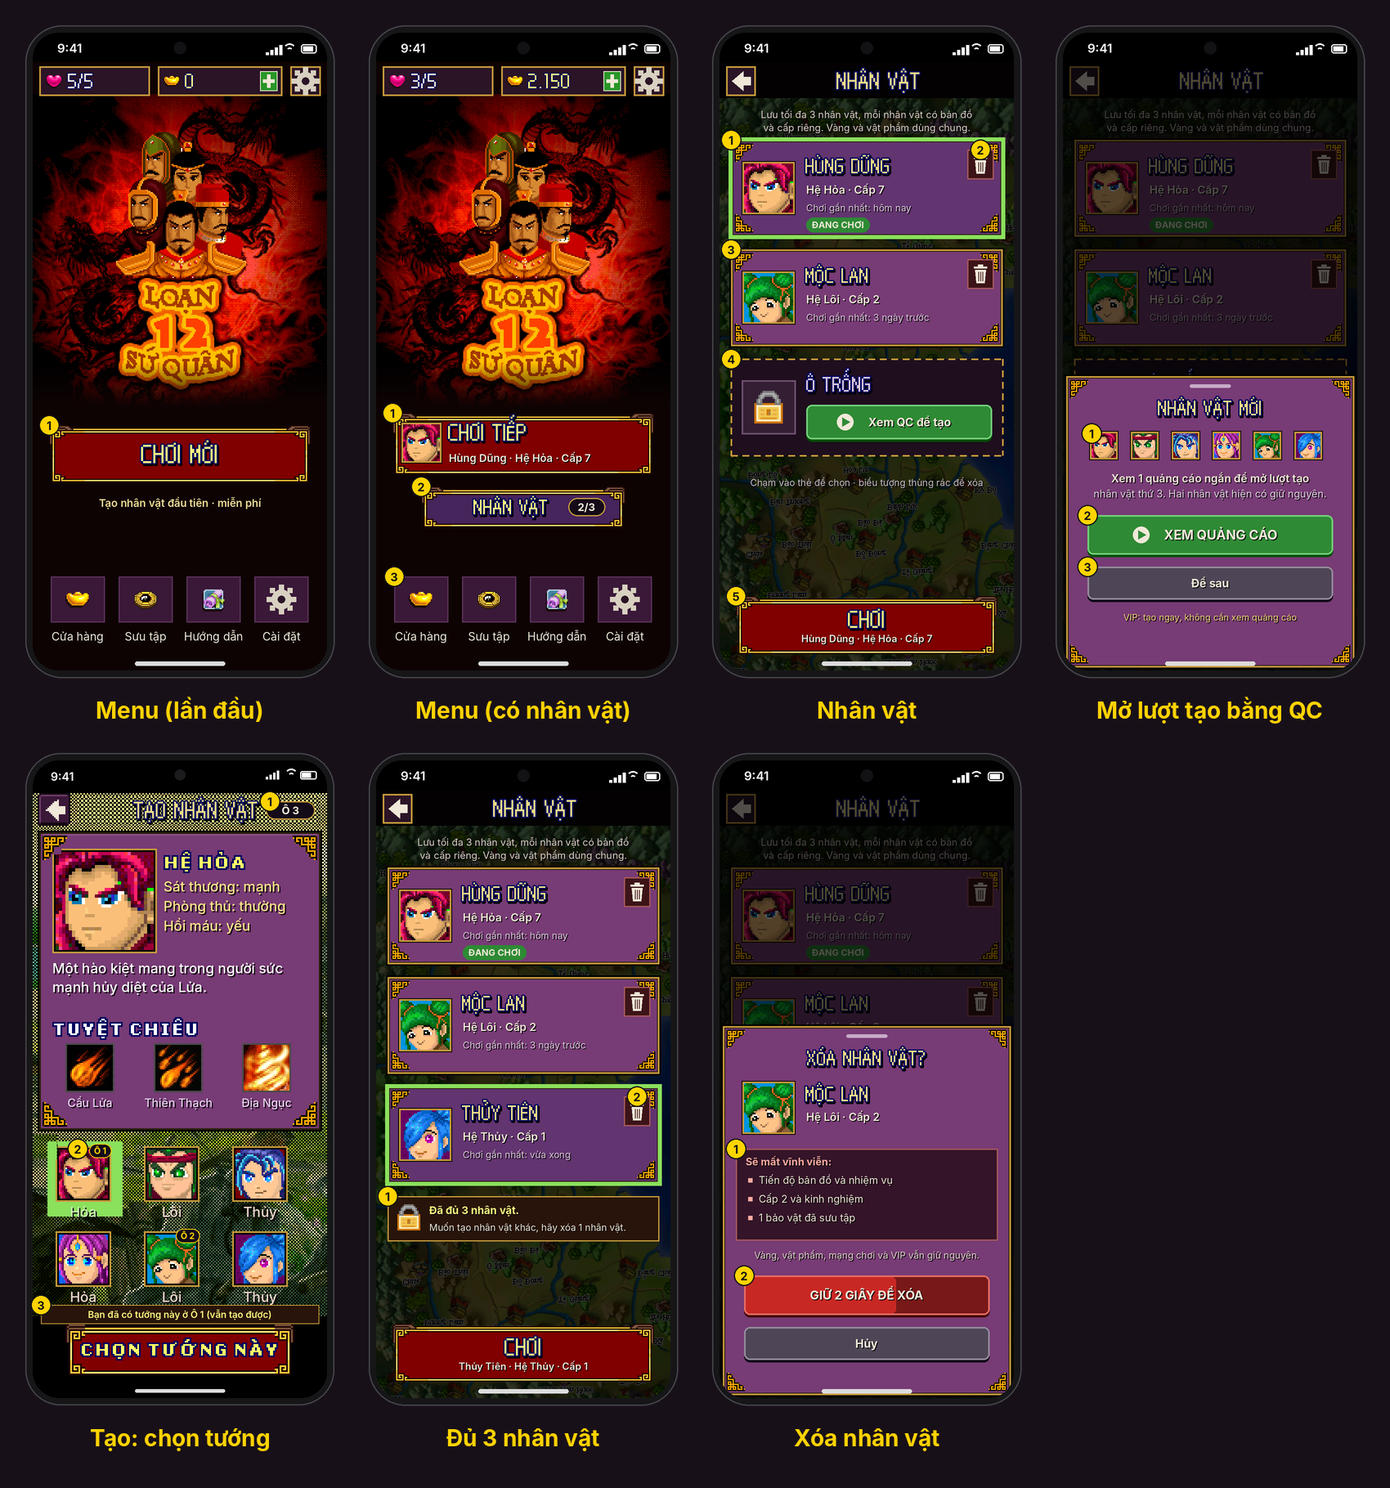
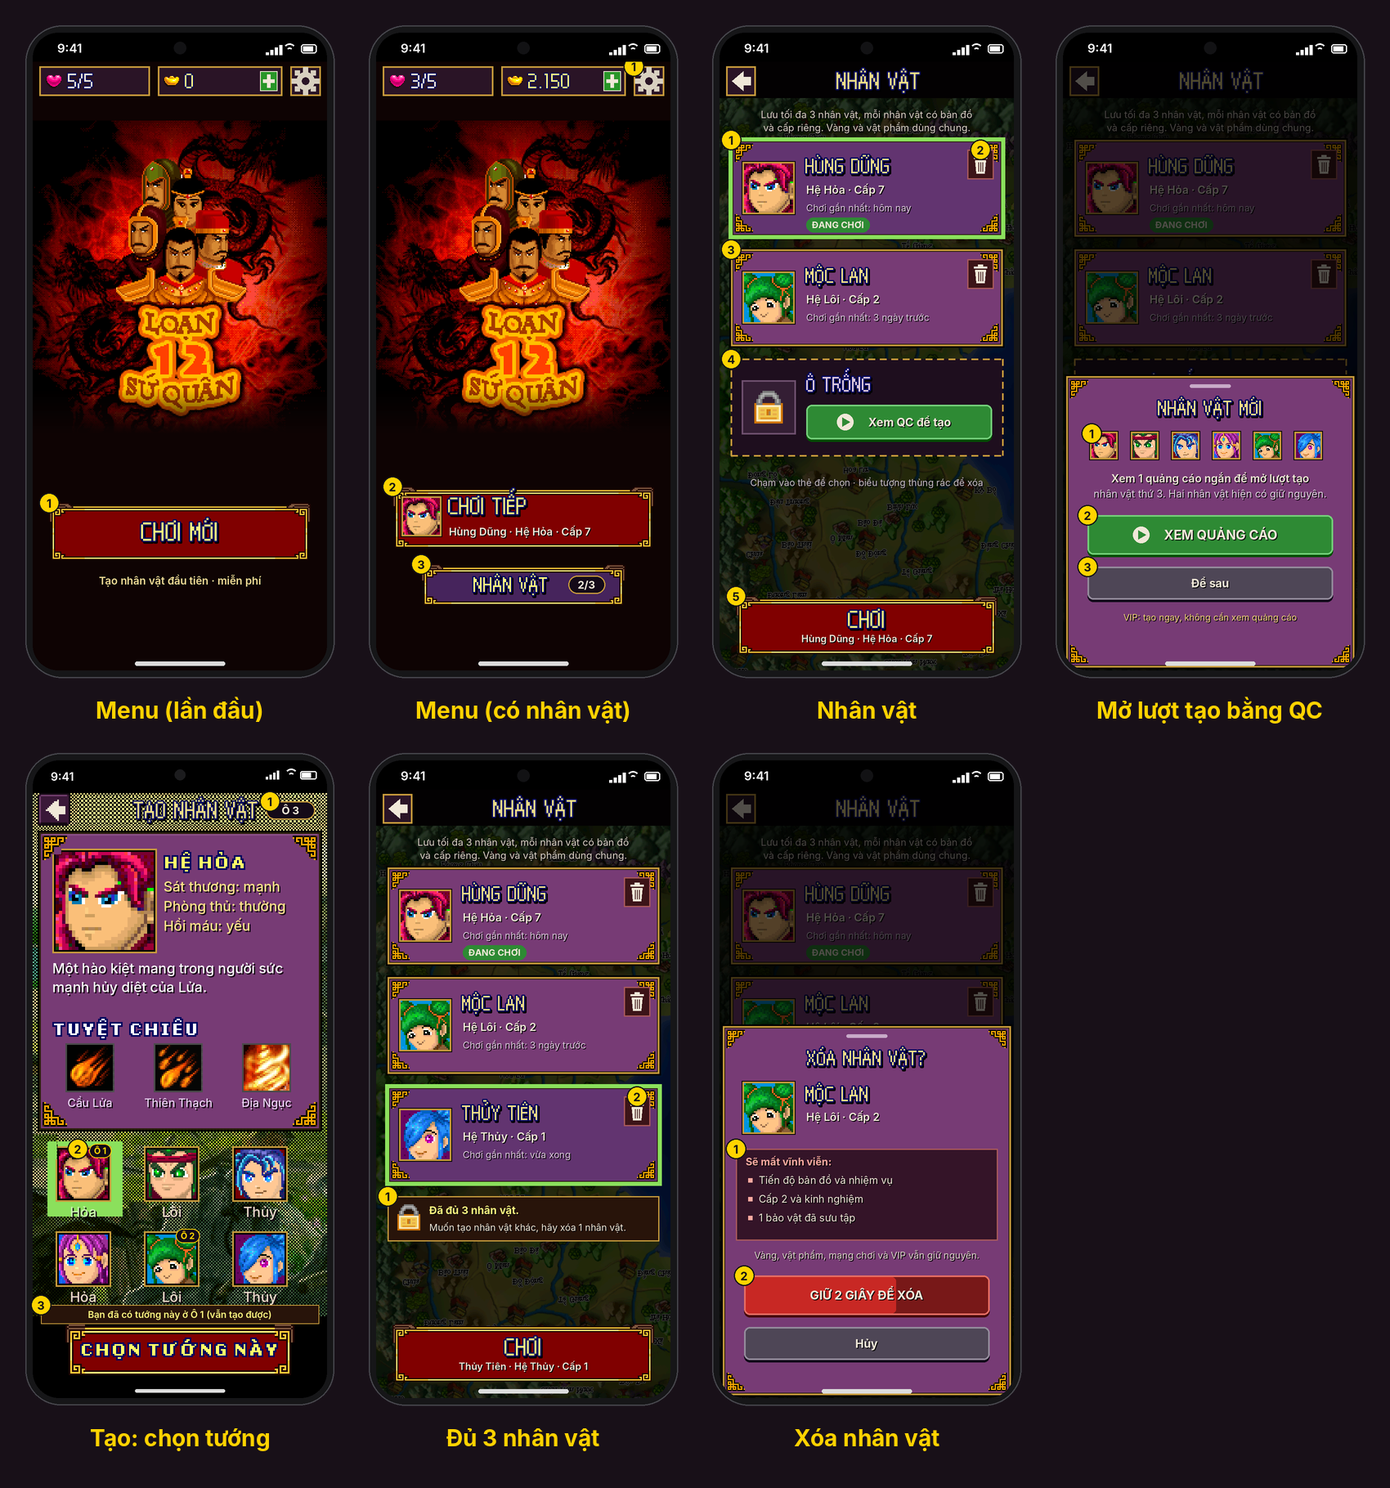
plan: Menu chính bỏ lối tắt, thiết kế màn Cài đặt
- plan/thiet-ke-cai-dat.md: Menu chỉ còn Chơi tiếp / Nhân vật (hoặc Chơi mới),
  nơi chuyển tới của Cửa hàng, Sưu tập, Hướng dẫn, Thông tin; màn Cài đặt từ
  Menu, từ bản đồ (thay hộp Tạm dừng) và trong trận; Luật chơi; Thông tin.
- Ảnh nháp plan/ui/cai-dat/; cập nhật ảnh Menu ở plan/ui/nhan-vat/.
- Sửa liên kết trong thiet-ke-nhieu-nhan-vat, thiet-ke-ban-do, thiet-ke-giao-dien.

Claude-Session: https://claude.ai/code/session_01DP7PE3Bcxc6a5H75rTjYAL

Changed region(s): [[0.0, 0.0615, 0.4988, 0.4308], [0.4365, 0.0308, 0.4676, 0.0615]]

diff --git a/plan/thiet-ke-cai-dat.md b/plan/thiet-ke-cai-dat.md
@@ -1,0 +1,152 @@
+# Menu chính gọn lại và màn Cài đặt
+
+> **Trạng thái:** thiết kế để implement, **chưa code**.
+>
+> - Ảnh nằm trong [`ui/cai-dat/`](ui/cai-dat/), vẽ bằng hình gốc của game, cùng lưới và màu với [thiết kế giao diện](thiet-ke-giao-dien.md).
+> - Toạ độ ghi theo **điểm ảo** `u` (1 u = 4 px trên ảnh nháp). Mã nguồn nhắc tới là bản Java dịch ngược trên nhánh `ui-touch`.
+
+![Tổng quan](ui/cai-dat/00_tong-quan-cai-dat.png)
+
+## 1. Menu chính: bỏ hàng lối tắt
+
+Bỏ hẳn hàng 4 nút **Cửa hàng · Sưu tập · Hướng dẫn · Cài đặt** ở đáy Menu chính. Menu chỉ còn thanh trên và 1–2 nút lớn.
+
+<img src="ui/cai-dat/09_menu-nhan-vat.png" width="300" alt="Menu chính có nhân vật"> <img src="ui/cai-dat/09b_menu-lan-dau.png" width="300" alt="Menu chính lần đầu">
+
+1. **Nút ⚙ trên thanh trên** (18×18 u, góc phải): mở màn Cài đặt (mục 2).
+2. **CHƠI TIẾP** (160×37 u) dời xuống, cách đáy vùng an toàn 75 u.
+3. **NHÂN VẬT n/3** (125×25 u) ngay dưới, cách 10 u. Lần đầu (chưa có nhân vật) chỉ có **CHƠI MỚI** (160×35 u) và dòng "Tạo nhân vật đầu tiên · miễn phí".
+
+- Ảnh bìa (`/bksplashscreen` x3) dời xuống 16 u cho cân với khoảng trống mới; mép dưới ảnh mờ dần vào nền (14,3,3) trong 27 u.
+- Các nút khác của thanh trên giữ nguyên: chạm ô **mạng** mở hộp Hết mạng / thêm mạng; nút **+** cạnh vàng mở **Cửa hàng** (tab Vàng).
+
+Những thứ bị bỏ khỏi Menu chuyển về đâu:
+
+| Trước ở Menu | Bây giờ |
+|---|---|
+| Cửa hàng | Thẻ Cửa hàng trên [bản đồ](thiet-ke-ban-do.md#5-thẻ-cửa-hàng). Từ Menu: nút **+** cạnh vàng mở cùng màn Cửa hàng ở dạng trang riêng (nút quay lại thay cho thanh điều hướng). |
+| Sưu tập | Mục Bảo vật trong thẻ [Túi đồ](thiet-ke-ban-do.md#4-thẻ-túi-đồ) (bảo vật là của từng nhân vật, nên đặt trong game hợp hơn). |
+| Hướng dẫn | Cài đặt → Trò chơi → **Luật chơi** (mục 2.4). |
+| Cài đặt | Nút ⚙ trên thanh trên. |
+| Thông tin, Tác giả | Cài đặt → Hỗ trợ → **Thông tin và tác giả** (mục 2.5). |
+
+## 2. Màn Cài đặt
+
+Một trang riêng, mở từ nút ⚙ ở **Menu chính** hoặc trên **bản đồ** (thay cho hộp Tạm dừng trước đây). Nội dung chia nhóm, mỗi nhóm là khung tím viền vàng (không có hoa văn góc), mỗi dòng cao 21 u, có vạch ngăn giữa các dòng. Trang cuộn dọc nếu không đủ chỗ.
+
+- Thanh trên: nút quay lại 18×18 u và tiêu đề "CÀI ĐẶT" phông pixel.
+- Quay lại / Back Android: đóng trang. Mọi thay đổi **lưu ngay** khi chạm, không có nút "Lưu".
+- Tiêu đề nhóm: chữ HD đậm 6 u, màu vàng (255,212,0), cách lề 8 u.
+
+### 2.1 Mở từ Menu chính
+
+<img src="ui/cai-dat/19_cai-dat.png" width="300" alt="Cài đặt từ Menu">
+
+1. **Âm thanh**
+   - **Âm thanh** (công tắc): bật/tắt toàn bộ nhạc và tiếng (`cx.x`, các lệnh `setMute(!cx.x)` ở `cf`, `dk`). Thay cho màn âm thanh (`v`, "Mở / Tắt" và mức âm lượng) lúc mở game.
+   - **Rung** (công tắc, mới): rung nhẹ khi trúng đòn mạnh, mua hàng thành công, giữ nút xoá nhân vật. Mặc định bật.
+2. **Âm lượng** (thanh kéo 0–100, bước 5, số bên phải): `cx.y`, lưu bằng `bg.d(n)` (16b #11) như màn âm thanh cũ (`v`). Vùng chạm cao 24 u; chạm chỗ nào trên thanh thì nhảy tới đó. Thả tay thì phát tiếng "chọn" một lần ở mức mới. Tắt âm thanh thì thanh này mờ và không kéo được.
+3. **Trò chơi**
+   - **Luật chơi ›**: mở trang Luật chơi (mục 2.4).
+   - **Hướng dẫn bản đồ ›**: chạy lại 3 bước chỉ tay của [bản đồ](thiet-ke-ban-do.md#35-hướng-dẫn-bản-đồ-lần-đầu-và-trong-cài-đặt). Từ Menu (chưa ở bản đồ): dòng mờ, ghi chú "Mở khi đang ở bản đồ".
+4. **Mua hàng và quảng cáo**
+   - **VIP**: bên phải "Chưa có ›" (chạm mở Cửa hàng tab Ưu đãi) hoặc "Đang có" (không chạm được).
+   - **Khôi phục giao dịch ›**: như nút cùng tên ở tab Ưu đãi.
+   - **Tuỳ chọn quảng cáo ›** (dòng phụ "Quyền riêng tư (Google)"): mở form quyền riêng tư của Google UMP. **Chỉ hiện** khi UMP báo cần hiện mục này (`PrivacyOptionsRequirementStatus == Required`, thường là người chơi ở châu Âu).
+5. **Hỗ trợ**
+   - **Đánh giá game ›**: mở hộp đánh giá trong ứng dụng của Google Play (In-App Review). Nếu Google Play không hiện hộp thì mở trang game trên Play Store.
+   - **Chia sẻ với bạn bè ›**: bảng chia sẻ của Android, nội dung "Chơi Loạn 12 Sứ Quân cùng mình: {link Play Store}".
+   - **Chính sách quyền riêng tư** (biểu tượng mở ngoài): mở trang chính sách trên trình duyệt. Cần có trang này trước khi phát hành (Google Play và AdMob bắt buộc).
+   - **Thông tin và tác giả ›**: mở trang mục 2.5.
+6. Dòng cuối: "Phiên bản {versionName} ({versionCode}) · Loạn 12 sứ quân · 2010 MicroGame". Chạm 7 lần liên tiếp: hiện mã người chơi ẩn danh để gửi hỗ trợ (không hiện email hay thông tin cá nhân).
+
+### 2.2 Mở trên bản đồ
+
+<img src="ui/cai-dat/19b_cai-dat-ban-do.png" width="300" alt="Cài đặt trên bản đồ">
+
+Game **tạm dừng** khi trang mở (không chạy tiếp đường đi, đồng hồ hồi mạng vẫn chạy). Khác bản từ Menu:
+
+1. Nhóm Trò chơi thêm dòng **Đổi nhân vật › {n}/3**: ghi save bản đồ (`aa.w()`), về Menu rồi mở ngay màn [Nhân vật](thiet-ke-nhieu-nhan-vat.md#43-màn-nhân-vật). Nhóm Hỗ trợ chỉ còn Đánh giá game, Thông tin và tác giả.
+2. **Thanh dưới cố định** (cao 42 u, vạch vàng phía trên): nút **Về menu chính** (đỏ sẫm (110,30,30), 79×21 u). Chạm: ghi save bản đồ rồi về Menu (hành động `MAP_MENU`). Không hỏi lại, vì save được ghi trước khi thoát.
+3. Nút **TIẾP TỤC** (đỏ khung vàng, 90×25 u): đóng trang, game chạy tiếp. Back Android và nút quay lại cũng như vậy.
+
+### 2.3 Mở trong trận đấu
+
+Nút tạm dừng của trận đấu giữ hộp Tạm dừng riêng như [thiết kế trận đấu](thiet-ke-giao-dien.md#6-trận-đấu-đã-sửa-theo-góp-ý) (tiếp tục, thoát trận). Hộp đó thêm một nút **Cài đặt** mở trang này **chỉ với nhóm Âm thanh**.
+
+### 2.4 Luật chơi
+
+<img src="ui/cai-dat/19c_luat-choi.png" width="300" alt="Luật chơi">
+
+Lấy từ hộp "Hướng dẫn" của Menu cũ (`ac.F()`), viết lại thành 2 khung cho dễ đọc. Nội dung giữ đúng luật của game.
+
+- **Cách đi**: xếp ít nhất 3 biểu tượng cùng loại, ngang hoặc dọc · xếp 4 được thêm 1 lượt, xếp 5 được thêm 1 vật phẩm · xếp sai mất lượt và mất máu.
+- **Biểu tượng** (hình gốc x3, tên đậm màu kem, một câu giải thích):
+
+| Hình | Tên | Giải thích |
+|---|---|---|
+| `/sword` | Thanh kiếm | Tấn công đối phương. |
+| `/swordred` | Kiếm lửa | Mạnh hơn kiếm thường, nổ thêm 1 ô xung quanh; xếp chung được với kiếm thường. |
+| `/yinyang` | Âm dương | Lấy năng lượng để dùng tuyệt chiêu. |
+| `/rice` | Bánh chưng | Lấy lương thực. Lương thực tiêu hao mỗi lượt của đối phương; hết là thua. |
+| `/gold` | Thỏi vàng | Lấy vàng để mua vật phẩm. |
+| `/book` | Cuốn sách | Lấy kinh nghiệm để lên cấp. |
+| `/heart` | Trái tim | Hồi máu. Hết máu là thua trận. |
+
+- Dòng cuối: "Cấp càng cao thì tấn công và máu càng lớn."
+- Câu "Tình tiết, cốt truyện và tên nhân vật phụ dựa vào sự kiện Loạn 12 Sứ Quân thế kỷ X" của game gốc chuyển sang trang Thông tin.
+
+### 2.5 Thông tin và tác giả
+
+Trang chữ, dùng đúng nội dung `h.f` của game gốc, mỗi mục là tiêu đề đậm và các dòng tên:
+
+- Loạn 12 sứ quân v1.0 · 2010 MicroGame Corp.
+- Kịch bản và âm thanh: Nguyễn Tuấn Dũng
+- Lập trình: Lê Trung Trung, Hồng Xuân Viên
+- Đồ hoạ: Nguyễn Duy Biểu, Vũ Hà Thanh
+- Kiểm định: Nguyễn Văn Quang
+- Thêm mục mới: "Bản chuyển sang Unity · {năm}" và câu ghi chú lịch sử ở mục 2.4.
+- Bỏ dòng "Thông tin và hỗ trợ: Http://PhuThoBay.Pro" của bản gốc (trang không còn).
+
+> Trước khi phát hành vẫn cần xác nhận quyền phát hành với chủ sở hữu game (xem [kế hoạch kiếm tiền](README.md#10-pháp-lý-và-chính-sách-cần-kiểm-tra-trước-khi-bật-thu-tiền)).
+
+## 3. Lưu dữ liệu
+
+Tất cả là **chung cho mọi nhân vật** (`acct_16b` hoặc PlayerPrefs riêng):
+
+| Khoá | Giá trị | Mặc định | Ghi chú |
+|---|---|---|---|
+| `cx.x` → `l12.soundOn` | bật/tắt | bật | Trước đây hỏi mỗi lần mở game, không lưu |
+| 16b #11 (`bg.d`) | 0–100 | 80 | Như cũ, chuyển sang `acct_16b` |
+| `l12.vibrate` | bật/tắt | bật | Mới |
+| `l12.mapTutorial` | — | — | Đã ở thiết kế bản đồ (theo nhân vật) |
+
+Lúc mở game: đọc `l12.soundOn` rồi gán `cx.x`, **bỏ qua màn hỏi âm thanh** (đi thẳng vào Menu).
+
+## 4. Chỗ cần sửa trong code
+
+| Việc | Chỗ |
+|---|---|
+| Bỏ màn âm thanh lúc mở game | Màn `v` (hình `/_sound`, "Mở / Tắt") đang mở trước Menu: gán `cx.x`, `cx.y` từ lưu trữ rồi đi thẳng vào Menu `ac` |
+| Bỏ các mục Cửa hàng, Sưu tập, Hướng dẫn, Thông tin, Tác giả, Chat OLA, Game khác, Tặng game khỏi Menu | `ac` (danh sách mục chọn `this.v`). Unity vẽ Menu mới nên chỉ cần không gọi các mục này |
+| Âm lượng | Dùng lại `cx.y` và `bg.d` (màn `v`) |
+| Tạm dừng trên bản đồ | Thay hộp "Bạn có muốn trở về menu hay không?" (`aa`, phím mềm "Thoát") bằng trang Cài đặt bản bản đồ |
+| Đánh giá, chia sẻ, quyền riêng tư, UMP | Phía Unity (Google Play In-App Review, Android share intent, `Application.OpenURL`, UMP), không qua game |
+
+## 5. Kiểm thử chấp nhận
+
+1. Menu không còn hàng 4 lối tắt; vẫn vào được Cửa hàng (nút + vàng), Sưu tập (Túi đồ), Luật chơi và Thông tin (Cài đặt).
+2. Tắt âm thanh, tắt game, mở lại: không còn hỏi, game im lặng; bật lại thì phát nhạc ngay.
+3. Kéo âm lượng về 0 và lên 100: âm lượng đổi tức thì, mở lại game vẫn giữ.
+4. Trên bản đồ: mở Cài đặt khi đang đi → nhân vật đứng yên; TIẾP TỤC → đi tiếp. "Về menu chính" → vào lại "Chơi tiếp" đúng chỗ cũ.
+5. "Đổi nhân vật" trên bản đồ → save được ghi, màn Nhân vật mở, chọn nhân vật khác chơi được.
+6. Tuỳ chọn quảng cáo chỉ hiện ở vùng UMP yêu cầu.
+7. Đánh giá game không lỗi khi Google Play từ chối hiện hộp (vẫn mở được trang Play Store).
+
+## 6. Cần quyết định
+
+| # | Câu hỏi | Mặc định trong tài liệu |
+|---|---|---|
+| C1 | Có cần trang Chính sách quyền riêng tư riêng không? | Có, bắt buộc khi có quảng cáo và mua hàng. Cần một địa chỉ web. |
+| C2 | Thêm chọn ngôn ngữ? | Chưa, chỉ tiếng Việt (phụ thuộc quyết định thị trường trong kế hoạch kiếm tiền). |
+| C3 | Hướng dẫn bản đồ khi mở từ Menu | Mờ, ghi "Mở khi đang ở bản đồ". |

diff --git a/plan/thiet-ke-ban-do.md b/plan/thiet-ke-ban-do.md
@@ -34,7 +34,7 @@ Phụ lục A, B, C ở cuối tài liệu liệt kê đủ 46 nhiệm vụ, 8 s
 
 | Vùng | Nội dung |
 |---|---|
-| Thanh trên (luôn hiện) | Mạng `n/5` và đồng hồ hồi mạng · vàng và nút **+** (mở Cửa hàng, tab Vàng) · nút ⚙ (mở hộp Tạm dừng) |
+| Thanh trên (luôn hiện) | Mạng `n/5` và đồng hồ hồi mạng · vàng và nút **+** (mở Cửa hàng, tab Vàng) · nút ⚙ (mở trang Cài đặt) |
 | Giữa | Nội dung của thẻ đang chọn |
 | Thanh điều hướng (cao 37 u) | 4 ô bằng nhau: Bản đồ · Túi đồ · Cửa hàng · Nhiệm vụ. Ô đang chọn nền tím (110,52,112), vạch vàng trên đầu, chữ vàng. |
 
@@ -42,7 +42,7 @@ Quy tắc:
 
 1. Cả 4 thẻ đều là **lớp vẽ đè lên màn bản đồ của game** (`aa` vẫn là màn hiện tại). Đổi thẻ không tạo màn mới trong game, không ghi save.
 2. Mỗi thẻ **giữ trạng thái** khi rời đi: vị trí cuộn, tab con, thẻ đang mở rộng. Ra Menu rồi vào lại thì về mặc định.
-3. **Nút Back Android:** đang có hộp hoặc khung thì đóng nó; đang ở thẻ khác thì về thẻ Bản đồ; đang ở Bản đồ thì mở hộp Tạm dừng.
+3. **Nút Back Android:** đang có hộp hoặc khung thì đóng nó; đang ở thẻ khác thì về thẻ Bản đồ; đang ở Bản đồ thì mở trang Cài đặt.
 4. **Đang đi trên đường mà đổi thẻ:** thẻ mới mở ngay; nhân vật đi hết đoạn đường đang đi rồi dừng (xoá phần đường còn lại, `portPathLen = 0`). Nếu giữa đoạn đó gặp quái chặn đường thì tự về thẻ Bản đồ và hiện hộp đối đầu.
 5. **Không đổi thẻ được** khi game đang mở hội thoại, hộp đối đầu, màn kết quả hay hộp thông báo. Lúc đó thanh điều hướng mờ 50%.
 6. **Chấm đỏ:**
@@ -53,7 +53,7 @@ Quy tắc:
    - **Hộp giữa màn** cho mọi chi tiết (vật phẩm, mua, nhiệm vụ, xác nhận): rộng 162 u (cách mép 9 u), **canh giữa theo chiều dọc** của vùng giữa thanh trên và thanh điều hướng, nền phía sau tối 65%, nút ✕ 11×11 u ở góc phải trên. Hộp cao hơn vùng giữa thì cuộn bên trong hộp.
    - **Khung sát đáy** chỉ dùng cho khung thông tin nút trên bản đồ (mục 3.3), để không che bản đồ.
    - Cả hai: chạm ra ngoài hoặc Back thì đóng; mở/đóng mờ dần 0.15 giây.
-8. **Hộp Tạm dừng** (nút ⚙): Tiếp tục · Âm thanh bật/tắt · Hướng dẫn bản đồ · Về menu. "Về menu" ghi save bản đồ (`aa.w()`) rồi thoát, thay cho hộp "Bạn có muốn trở về menu hay không?" của game.
+8. **Nút ⚙** mở trang [Cài đặt bản bản đồ](thiet-ke-cai-dat.md#22-mở-trên-bản-đồ) (game tạm dừng; có Tiếp tục, Đổi nhân vật, Về menu chính), thay cho hộp "Bạn có muốn trở về menu hay không?" của game.
 
 ## 3. Thẻ Bản đồ
 
@@ -118,7 +118,7 @@ Nội dung theo thứ tự ưu tiên của nút:
 - **Gặp quái chặn đường** (bộ đếm `ae` về 0): dừng đường đi, hiện hộp đối đầu như hiện nay. Sau trận (thắng hoặc rút lui), **không** tự đi tiếp; khung thông tin của điểm đích mở lại với nút ĐI TỚI.
 - Chạm một nút khác khi đang đi: đổi đích, đi tiếp từ cuối đoạn hiện tại.
 
-### 3.5 Hướng dẫn bản đồ (lần đầu và trong hộp Tạm dừng)
+### 3.5 Hướng dẫn bản đồ (lần đầu và trong Cài đặt)
 
 Thay hộp chữ cũ ("bấm các phím 2, 4, 6, 8") bằng 3 bước chỉ tay, mỗi bước một câu, chạm để qua:
 

diff --git a/plan/thiet-ke-nhieu-nhan-vat.md b/plan/thiet-ke-nhieu-nhan-vat.md
@@ -130,13 +130,13 @@ Chạy một lần khi chưa có `l12.slots.v1`:
 
 Thay cho cặp nút "Chơi tiếp / Chơi mới" ở [Menu chính](thiet-ke-giao-dien.md#1-menu-chính).
 
-1. **Nút "CHƠI TIẾP"** (đỏ khung vàng, rộng 160 u, cao 37 u, cách lề 10 u):
+1. **Nút ⚙** trên thanh trên: mở [màn Cài đặt](thiet-ke-cai-dat.md#2-màn-cài-đặt). Menu không còn hàng lối tắt Cửa hàng, Sưu tập, Hướng dẫn, Cài đặt ([chi tiết](thiet-ke-cai-dat.md#1-menu-chính-bỏ-hàng-lối-tắt)).
+2. **Nút "CHƠI TIẾP"** (đỏ khung vàng, rộng 160 u, cao 37 u, cách lề 10 u, cách đáy vùng an toàn 75 u):
    - chân dung tướng của `activeSlot` 30×30 phóng x3 (22.5 u), viền vàng, cách mép trái 6 u;
    - dòng 1 phông pixel: "CHƠI TIẾP";
    - dòng 2 phông HD 6.5 u: `{tên viết hoa đầu} · Hệ {Hỏa|Lôi|Thủy} · Cấp {level}`. Tên dài quá 14 ký tự thì cắt và thêm "…".
    - Chạm: `bg.useSlot(activeSlot)` rồi đi như mục 3.2.
-2. **Nút "NHÂN VẬT"** (khung cùng kiểu, nền tím (70,36,92), rộng 125 u, cao 25 u, căn giữa, cách nút trên 7 u). Bên phải có ô số `{số ô có nhân vật}/3`. Chạm: mở màn 4.2.
-3. Lối tắt (Cửa hàng, Sưu tập, Hướng dẫn, Cài đặt) giữ nguyên.
+3. **Nút "NHÂN VẬT"** (khung cùng kiểu, nền tím (70,36,92), rộng 125 u, cao 25 u, căn giữa, cách nút trên 10 u). Bên phải có ô số `{số ô có nhân vật}/3`. Chạm: mở màn 4.2.
 
 Thanh trên: mạng và vàng đều là **chung** cho mọi nhân vật.
 

diff --git a/plan/thiet-ke-giao-dien.md b/plan/thiet-ke-giao-dien.md
@@ -50,6 +50,7 @@ Số trong vòng tròn vàng trên ảnh ứng với các ghi chú bên dưới 
 <img src="ui/01_menu.png" width="300" alt="Menu chính">
 
 > Nút "Chơi mới" được thay bằng tính năng nhiều nhân vật (tối đa 3 ô): xem [thiết kế nhiều nhân vật](thiet-ke-nhieu-nhan-vat.md).
+> Hàng lối tắt (ghi chú 3) đã bỏ; Cài đặt mở bằng nút ⚙: xem [Menu chính gọn lại và màn Cài đặt](thiet-ke-cai-dat.md).
 
 1. Thanh trên: mạng, vàng, nút Cài đặt.
 2. **"Chơi tiếp" là nút lớn nhất**, "Chơi mới" ngay dưới.
@@ -267,6 +268,7 @@ Game gốc tự vẽ mọi thứ lên khung 240x320, và phần lớn code vẽ 
 
 ## Liên quan
 
+- [Menu chính gọn lại và màn Cài đặt](thiet-ke-cai-dat.md): bỏ lối tắt ở Menu, trang Cài đặt từ Menu và từ bản đồ, Luật chơi, Thông tin.
 - [Giao diện bản đồ](thiet-ke-ban-do.md): chi tiết 4 thẻ Bản đồ, Túi đồ, Cửa hàng, Nhiệm vụ, kèm danh sách 46 nhiệm vụ.
 - [Thiết kế nhiều nhân vật](thiet-ke-nhieu-nhan-vat.md): Menu chính với 3 ô nhân vật, tạo thêm nhân vật bằng quảng cáo, vàng và vật phẩm dùng chung.
 - Các màn nháp trong [`mockups/`](mockups/) của [kế hoạch kiếm tiền](README.md) được vẽ trên bố cục cũ (khung 3:4). Ý tưởng giữ nguyên, sẽ đặt vào bố cục mới:
